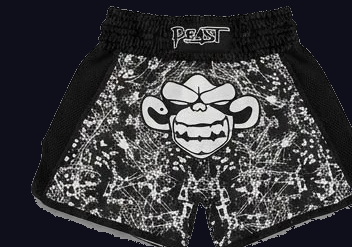
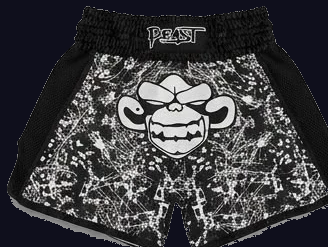
Merch: tight-crop products to fill cards + object-fit cover
- Flood-fill removes studio background, crops to exact product bounds
- Gloves: 586x424 on deep red-black
- Shin pads: 303x302 on dark navy
- Shorts: 328x247 on near-black blue
- Wraps: 443x282 on dark gold-black
- CSS: object-fit cover fills card completely, no empty space

diff --git a/style.css b/style.css
@@ -1633,10 +1633,9 @@ section{padding:6rem 0}
 }
 .merch-photo-sm .merch-real-img{
   width:100%;height:100%;min-height:240px;
-  object-fit:contain;
-  padding:12px;
+  object-fit:cover;
+  object-position:center center;
   display:block;
-  filter:contrast(1.05) brightness(0.95);
 }
 .merch-real-img{
   width:100%;height:100%;
